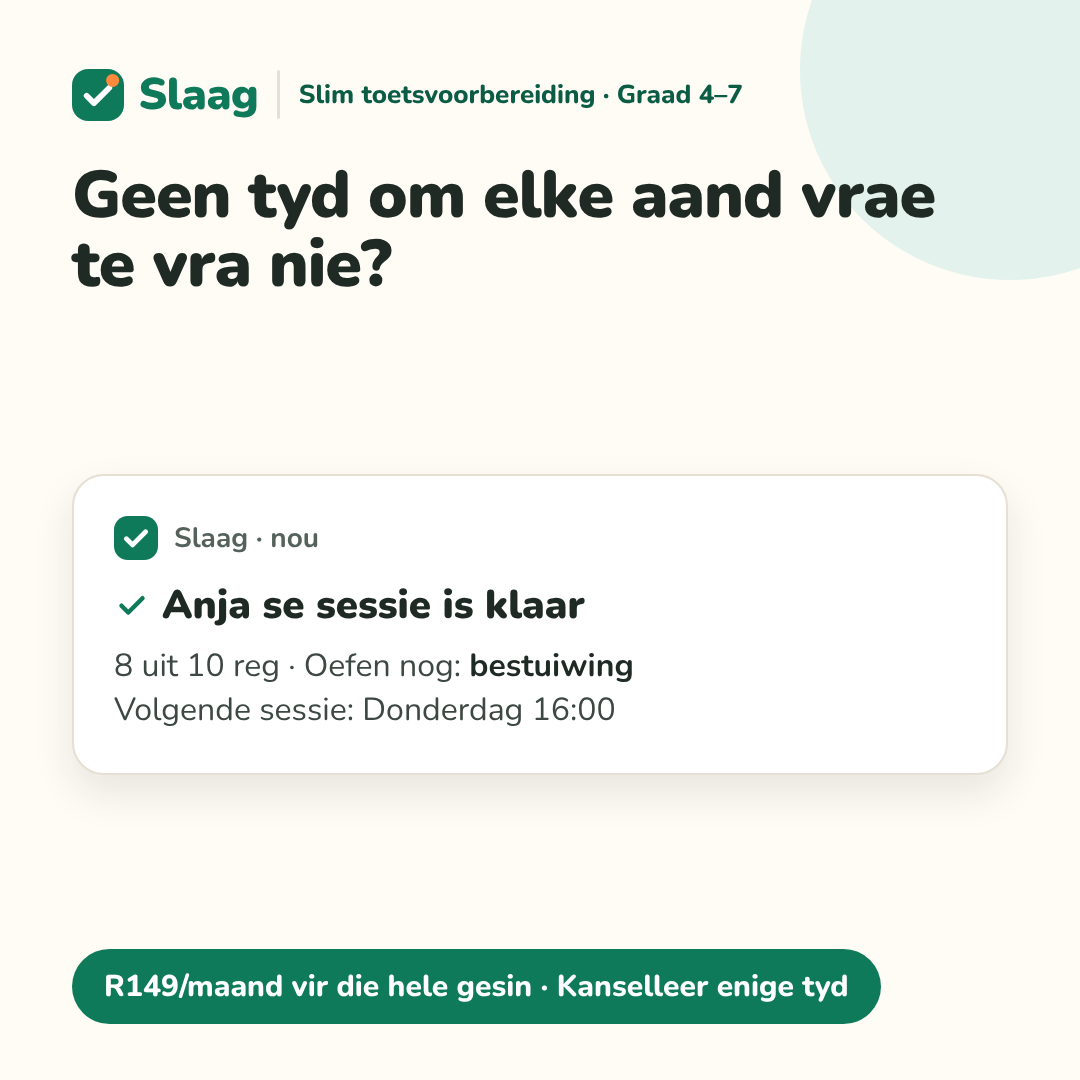
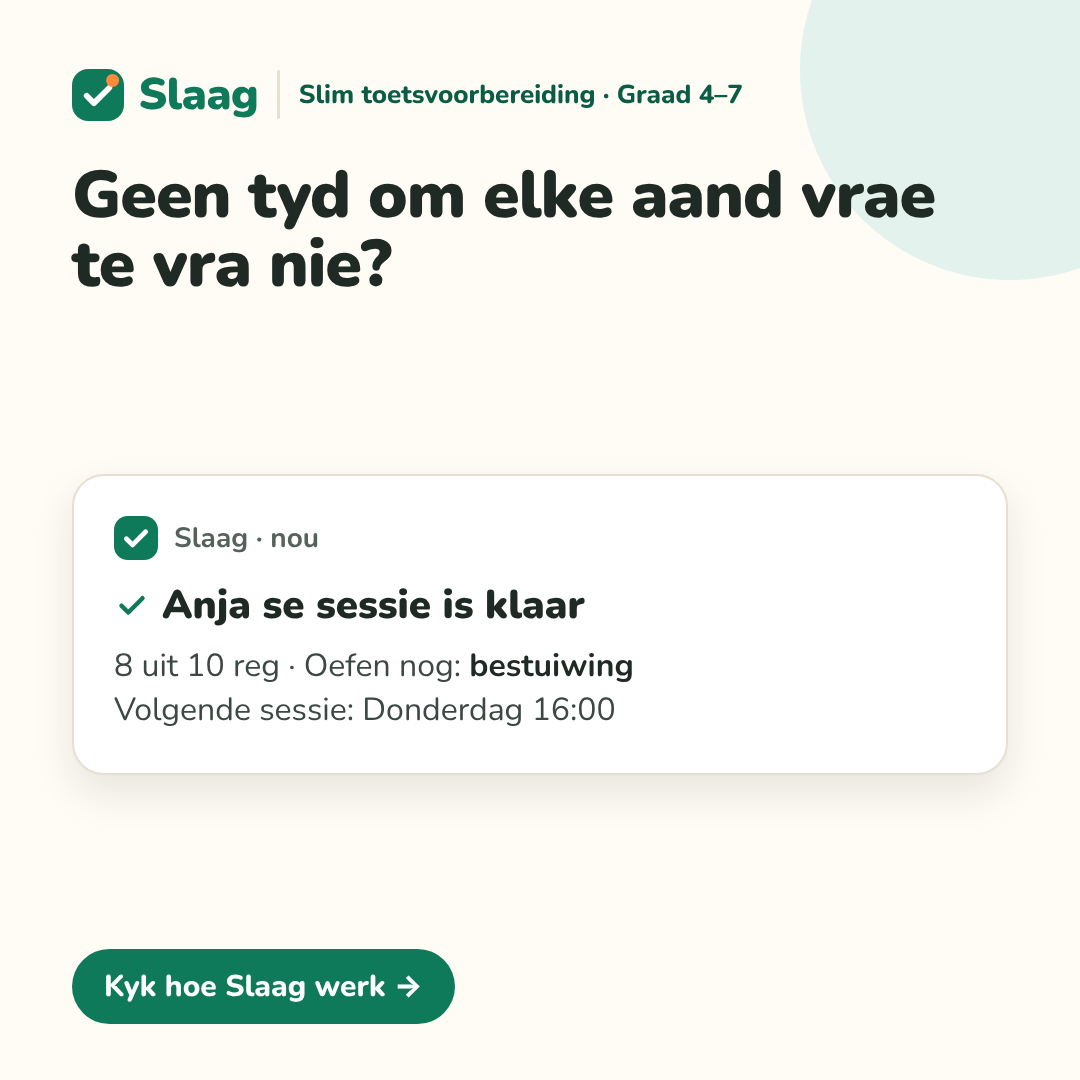
Remove the price from early-phase ads
Warm-up and base ads end on 'Kyk hoe Slaag werk' instead of the price
line, in images and copy; recorded as campaign decision 25.

Claude-Session: https://claude.ai/code/session_01SrcmWQxYMboXj3Ca13MEFb

Changed region(s): [[0.0917, 0.8556, 0.825, 0.9472]]

diff --git a/docs/marketing/creative/term1-set1/src/a1-terug-skool-9x16.html b/docs/marketing/creative/term1-set1/src/a1-terug-skool-9x16.html
@@ -23,5 +23,5 @@
     <div style="display:flex;gap:14px;flex-wrap:wrap;margin-top:32px">
       <span style="display:inline-flex;align-items:center;gap:10px;padding:10px 22px;border-radius:999px;background:#FFF3E3;color:#B4540F;font-weight:800;font-size:28px">Uit jul eie handboek</span><span style="display:inline-flex;align-items:center;gap:10px;padding:10px 22px;border-radius:999px;background:#FFF3E3;color:#B4540F;font-weight:800;font-size:28px">Graad 4–7</span><span style="display:inline-flex;align-items:center;gap:10px;padding:10px 22px;border-radius:999px;background:#FFF3E3;color:#B4540F;font-weight:800;font-size:28px">In Afrikaans</span>
     </div></div></div>
-  <div style="position:relative;align-self:flex-start;background:#0E7A5A;color:#FFF;font-size:38px;font-weight:800;padding:22px 40px;border-radius:36px;line-height:1.3">R149/maand vir die hele gesin<br><span style="font-weight:700;opacity:.92">Kanselleer enige tyd</span></div>
+  <div style="position:relative;align-self:flex-start;background:#0E7A5A;color:#FFF;font-size:38px;font-weight:800;padding:22px 40px;border-radius:36px;line-height:1.3">Kyk hoe Slaag werk →</div>
 </div></body></html>

diff --git a/docs/marketing/creative/term1-set1/src/a1-terug-skool-1x1.html b/docs/marketing/creative/term1-set1/src/a1-terug-skool-1x1.html
@@ -23,5 +23,5 @@
     <div style="display:flex;gap:14px;flex-wrap:wrap;margin-top:32px">
       <span style="display:inline-flex;align-items:center;gap:10px;padding:10px 22px;border-radius:999px;background:#FFF3E3;color:#B4540F;font-weight:800;font-size:28px">Uit jul eie handboek</span><span style="display:inline-flex;align-items:center;gap:10px;padding:10px 22px;border-radius:999px;background:#FFF3E3;color:#B4540F;font-weight:800;font-size:28px">Graad 4–7</span><span style="display:inline-flex;align-items:center;gap:10px;padding:10px 22px;border-radius:999px;background:#FFF3E3;color:#B4540F;font-weight:800;font-size:28px">In Afrikaans</span>
     </div></div></div>
-  <div style="position:relative;align-self:flex-start;background:#0E7A5A;color:#FFF;font-size:30px;font-weight:800;padding:18px 32px;border-radius:999px;line-height:1.3">R149/maand vir die hele gesin · Kanselleer enige tyd</div>
+  <div style="position:relative;align-self:flex-start;background:#0E7A5A;color:#FFF;font-size:30px;font-weight:800;padding:18px 32px;border-radius:999px;line-height:1.3">Kyk hoe Slaag werk →</div>
 </div></body></html>

diff --git a/docs/marketing/creative/term1-set1/src/a5-geen-tyd-9x16.html b/docs/marketing/creative/term1-set1/src/a5-geen-tyd-9x16.html
@@ -18,5 +18,5 @@
     </div>
     <div style="font-size:40px;font-weight:900;margin-top:18px;display:flex;align-items:center;gap:12px"><svg width="36" height="36" viewBox="0 0 24 24" fill="none" stroke="#0E7A5A" stroke-width="3" stroke-linecap="round" stroke-linejoin="round" aria-hidden="true"><path d="M5 12.5l4.5 4.5L19 7.5"/></svg>Anja se sessie is klaar</div>
     <div style="font-size:32px;color:#3D4842;margin-top:12px;line-height:1.4">8 uit 10 reg · Oefen nog: <b style="color:#1F2A24">bestuiwing</b><br>Volgende sessie: Donderdag 16:00</div></div></div>
-  <div style="position:relative;align-self:flex-start;background:#0E7A5A;color:#FFF;font-size:38px;font-weight:800;padding:22px 40px;border-radius:36px;line-height:1.3">R149/maand vir die hele gesin<br><span style="font-weight:700;opacity:.92">Kanselleer enige tyd</span></div>
+  <div style="position:relative;align-self:flex-start;background:#0E7A5A;color:#FFF;font-size:38px;font-weight:800;padding:22px 40px;border-radius:36px;line-height:1.3">Kyk hoe Slaag werk →</div>
 </div></body></html>

diff --git a/docs/marketing/creative/term1-set1/src/a5-geen-tyd-1x1.html b/docs/marketing/creative/term1-set1/src/a5-geen-tyd-1x1.html
@@ -18,5 +18,5 @@
     </div>
     <div style="font-size:40px;font-weight:900;margin-top:18px;display:flex;align-items:center;gap:12px"><svg width="36" height="36" viewBox="0 0 24 24" fill="none" stroke="#0E7A5A" stroke-width="3" stroke-linecap="round" stroke-linejoin="round" aria-hidden="true"><path d="M5 12.5l4.5 4.5L19 7.5"/></svg>Anja se sessie is klaar</div>
     <div style="font-size:32px;color:#3D4842;margin-top:12px;line-height:1.4">8 uit 10 reg · Oefen nog: <b style="color:#1F2A24">bestuiwing</b><br>Volgende sessie: Donderdag 16:00</div></div></div>
-  <div style="position:relative;align-self:flex-start;background:#0E7A5A;color:#FFF;font-size:30px;font-weight:800;padding:18px 32px;border-radius:999px;line-height:1.3">R149/maand vir die hele gesin · Kanselleer enige tyd</div>
+  <div style="position:relative;align-self:flex-start;background:#0E7A5A;color:#FFF;font-size:30px;font-weight:800;padding:18px 32px;border-radius:999px;line-height:1.3">Kyk hoe Slaag werk →</div>
 </div></body></html>

diff --git a/docs/marketing/creative/term1-set1/src/a7-nie-eksaminator-9x16.html b/docs/marketing/creative/term1-set1/src/a7-nie-eksaminator-9x16.html
@@ -19,5 +19,5 @@
       <div style="display:inline-block;background:#FF8A3D;color:#1F2A24;font-weight:900;font-size:32px;padding:8px 22px;border-radius:999px">Amper daar!</div>
       <div style="font-size:30px;margin-top:16px;line-height:1.4"><b>Reg:</b> stuifmeel word oorgedra.<br><b>Wat kort:</b> van die helmknop na die stempel.</div>
     </div></div></div>
-  <div style="position:relative;align-self:flex-start;background:#0E7A5A;color:#FFF;font-size:38px;font-weight:800;padding:22px 40px;border-radius:36px;line-height:1.3">R149/maand vir die hele gesin<br><span style="font-weight:700;opacity:.92">Kanselleer enige tyd</span></div>
+  <div style="position:relative;align-self:flex-start;background:#0E7A5A;color:#FFF;font-size:38px;font-weight:800;padding:22px 40px;border-radius:36px;line-height:1.3">Kyk hoe Slaag werk →</div>
 </div></body></html>

diff --git a/docs/marketing/creative/term1-set1/src/a6-ek-het-geleer-9x16.html b/docs/marketing/creative/term1-set1/src/a6-ek-het-geleer-9x16.html
@@ -25,5 +25,5 @@
       </div>
       <div style="height:18px;border-radius:999px;background:#E3F2EC;margin-top:22px"><div style="width:72%;height:100%;border-radius:999px;background:#0E7A5A"></div></div>
       <div style="font-size:30px;color:#3D4842;margin-top:20px">Oefen nog: <b style="color:#1F2A24">bestuiwing, bevrugting</b></div></div></div>
-  <div style="position:relative;align-self:flex-start;background:#0E7A5A;color:#FFF;font-size:38px;font-weight:800;padding:22px 40px;border-radius:36px;line-height:1.3">R149/maand vir die hele gesin<br><span style="font-weight:700;opacity:.92">Kanselleer enige tyd</span></div>
+  <div style="position:relative;align-self:flex-start;background:#0E7A5A;color:#FFF;font-size:38px;font-weight:800;padding:22px 40px;border-radius:36px;line-height:1.3">Kyk hoe Slaag werk →</div>
 </div></body></html>

diff --git a/docs/marketing/creative/term1-set1/src/a7-nie-eksaminator-1x1.html b/docs/marketing/creative/term1-set1/src/a7-nie-eksaminator-1x1.html
@@ -19,5 +19,5 @@
       <div style="display:inline-block;background:#FF8A3D;color:#1F2A24;font-weight:900;font-size:32px;padding:8px 22px;border-radius:999px">Amper daar!</div>
       <div style="font-size:30px;margin-top:16px;line-height:1.4"><b>Reg:</b> stuifmeel word oorgedra.<br><b>Wat kort:</b> van die helmknop na die stempel.</div>
     </div></div></div>
-  <div style="position:relative;align-self:flex-start;background:#0E7A5A;color:#FFF;font-size:30px;font-weight:800;padding:18px 32px;border-radius:999px;line-height:1.3">R149/maand vir die hele gesin · Kanselleer enige tyd</div>
+  <div style="position:relative;align-self:flex-start;background:#0E7A5A;color:#FFF;font-size:30px;font-weight:800;padding:18px 32px;border-radius:999px;line-height:1.3">Kyk hoe Slaag werk →</div>
 </div></body></html>

diff --git a/docs/marketing/creative/term1-set1/src/a6-ek-het-geleer-1x1.html b/docs/marketing/creative/term1-set1/src/a6-ek-het-geleer-1x1.html
@@ -25,5 +25,5 @@
       </div>
       <div style="height:18px;border-radius:999px;background:#E3F2EC;margin-top:22px"><div style="width:72%;height:100%;border-radius:999px;background:#0E7A5A"></div></div>
       <div style="font-size:30px;color:#3D4842;margin-top:20px">Oefen nog: <b style="color:#1F2A24">bestuiwing, bevrugting</b></div></div></div>
-  <div style="position:relative;align-self:flex-start;background:#0E7A5A;color:#FFF;font-size:30px;font-weight:800;padding:18px 32px;border-radius:999px;line-height:1.3">R149/maand vir die hele gesin · Kanselleer enige tyd</div>
+  <div style="position:relative;align-self:flex-start;background:#0E7A5A;color:#FFF;font-size:30px;font-weight:800;padding:18px 32px;border-radius:999px;line-height:1.3">Kyk hoe Slaag werk →</div>
 </div></body></html>

diff --git a/docs/marketing/content/02-term1-ad-set-1.md b/docs/marketing/content/02-term1-ad-set-1.md
@@ -2,7 +2,7 @@
 
 _Drafted 2026-11-24 with the Marketing plugin's `draft-content` method, from the angles chosen by the product owner. Campaign context: [CAMPAIGN-PLAN.md](../CAMPAIGN-PLAN.md) (Part B, asset C2). Images: [`../creative/term1-set1/`](../creative/term1-set1/), built with `node docs/marketing/creative/build.mjs term1-set1` (definitions in `creative/ads.mjs`)._
 
-**Voice applied:** the cool older cousin, "jy", no guilt or fear copy, no Snippie (Design Brief and campaign decisions 11–14). **On every image:** the logo with the fixed descriptor **"Slim toetsvoorbereiding · Graad 4–7"**, and the price line R149 per month for the whole family, cancel any time.
+**Voice applied:** the cool older cousin, "jy", no guilt or fear copy, no Snippie (Design Brief and campaign decisions 11–14). **On every image:** the logo with the fixed descriptor **"Slim toetsvoorbereiding · Graad 4–7"**, and the soft prompt **"Kyk hoe Slaag werk →"** ("See how Slaag works →"). **No price in warm-up and base ads** (decision 25); the price appears on the landing page.
 
 ## Running order
 
@@ -32,8 +32,6 @@ A1 keeps running at a low share in the base phase only if it beats one of the ba
 > Die nuwe kwartaal begin. Hierdie keer sonder die paniek die aand voor die toets. 🎒
 >
 > Slaag maak jou kind toetsgereed, uit hul eie handboek – en jy weet altyd waar julle staan.
->
-> R149 per maand vir die hele gesin. Kanselleer enige tyd.
 
 **Headline:** Nuwe kwartaal. Kalmer toetse.
 **Description:** Graad 4–7 · In Afrikaans
@@ -47,8 +45,6 @@ A1 keeps running at a low share in the base phase only if it beats one of the ba
 > Werk, kos, huiswerk, bad – en dan nog die handboek uithaal om vrae te vra? 😮💨
 >
 > Slaag vra jou kind die vrae uit hul eie handboek, in kort sessies. Jy kry net 'n boodskap: klaar, en hoe dit gegaan het.
->
-> R149 per maand vir die hele gesin. Kanselleer enige tyd.
 
 **Headline:** Geen tyd om elke aand vrae te vra nie?
 **Description:** Slaag vra die vrae. Jy sien die uitslag.
@@ -62,8 +58,6 @@ A1 keeps running at a low share in the base phase only if it beats one of the ba
 > "Ek het geleer, Ma." Maar weet jy regtig? 🤔
 >
 > Slaag wys jou wat sit al en wat nog nie. Ná elke sessie sien jy die telling, die swak plekke en die volgende stap – op jou foon, met een kyk.
->
-> R149 per maand vir die hele gesin. Kanselleer enige tyd.
 
 **Headline:** "Ek het geleer, Ma." Maar weet jy regtig?
 **Description:** Sien met een kyk of julle op koers is.
@@ -77,8 +71,6 @@ A1 keeps running at a low share in the base phase only if it beats one of the ba
 > Niemand hou daarvan om te sê "nee, dis nie heeltemal reg nie" – nie jy nie, en nie jou kind nie.
 >
 > Slaag merk die antwoorde, wys wat reg was en wat nog kort, en moedig aan. Jy kan weer die een wees wat trots is. 💚
->
-> R149 per maand vir die hele gesin. Kanselleer enige tyd.
 
 **Headline:** Wees weer net Ma, nie die eksaminator nie.
 **Description:** Slaag merk. Jy moedig aan.

diff --git a/docs/marketing/CAMPAIGN-PLAN.md b/docs/marketing/CAMPAIGN-PLAN.md
@@ -55,7 +55,7 @@ The term is split into thirds, plus a short warm-up before school opens and a ho
 | 3 | **Your child actually wants to do it.** Short sessions, instant feedback, credits and badges; never shamed | "Will my child use it?" / screen time | Base, ramp |
 | 4 | **Calmer than the night before.** Enter the test date and Slaag plans one session at a time, even with a test tomorrow | Evening battles, late discovery | Ramp, push |
 
-**Price line:** *R149 per maand vir die hele gesin (tot 3 kinders). Kanselleer enige tyd.* (Under R50 per child for three children.)
+**Price line:** *R149 per maand vir die hele gesin (tot 3 kinders). Kanselleer enige tyd.* (Under R50 per child for three children.) **Not shown in warm-up and base ads**: early ads build interest and the price lives on the landing page. Ramp and push ads may show it (decide per set).
 
 **Holiday message:** *celebrate, create envy, no blame*, e.g. *"Kwartaal klaar, toetse geskryf – Slaag-gesinne, julle het hierdie vakansie verdien! 🌴"*
 
@@ -241,6 +241,7 @@ All confirmed with the product owner on 2026-11-23/24. Nothing in this plan is a
 | 18 | Meta signals: server-side `InitiateCheckout`, `Subscribe`, custom cancelled/suspended/reactivated; **no Pixel**; daily hashed emails of every Parent user; never child data |
 | 23 | **No marketing consent checkbox and no opt-out**; sharing with Meta disclosed in a privacy-notice line only (risk accepted) |
 | 24 | Fixed **product descriptor** next to the logo on every ad: *Slim toetsvoorbereiding · Graad 4–7* (2026-11-25) |
+| 25 | **No price in warm-up and base ads**; their footer is the soft prompt "Kyk hoe Slaag werk →" (2026-11-26) |
 | 19 | Term 1 budget split: warm-up R600 (5%), base R2,400 (20%), ramp R3,600 (30%), push R4,800 (40%), holiday R600 (5%) |
 | 20 | Weekly warning line: 10 sign-ups by 12 Jan, 60 by 3 Feb, 140 by 24 Feb, 250 by 19 Mar |
 | 21 | Retargeting window: checkout started without a sign-up in the **last 14 days** |
